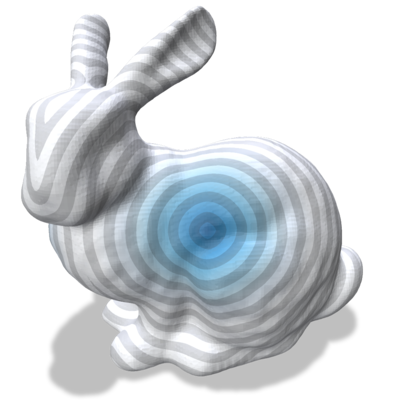
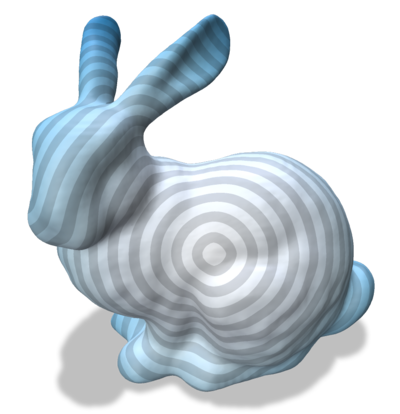
ok doc

diff --git a/src/DGtal/dec/GeodesicsInHeat.h b/src/DGtal/dec/GeodesicsInHeat.h
@@ -124,7 +124,11 @@ class GeodesicsInHeat
     {
       myIsInit=true;
       
-      SparseMatrix laplacian = myCalculus->globalLaplaceBeltrami();
+      //As the LB is PSD, the identity matrix shouldn't be necessary. However, some solvers
+      //may have issues with positive semi-definite matrix.
+      SparseMatrix I(myCalculus->nbVertices(),myCalculus->nbVertices());
+      I.setIdentity();
+      SparseMatrix laplacian = myCalculus->globalLaplaceBeltrami() + 1e-6 * I;
       SparseMatrix mass      = myCalculus->globalLumpedMassMatrix();
       SparseMatrix heatOpe   = mass + dt*laplacian;
       
@@ -138,12 +142,12 @@ class GeodesicsInHeat
     
     /** Adds a source point at a vertex @e aV
     * @param aV the Vertex
-    * @param dirac the value (def=1.0).
      **/
-    void addSource(const Vertex aV, double dirac=1.0)
+    void addSource(const Vertex aV)
     {
       ASSERT_MSG(aV < myCalculus->nbVertices(), "Vertex not in the surface mesh vertex range");
-      mySource( aV ) = dirac;
+      myLastSourceIndex = aV;
+      mySource( aV ) = 1.0;
     }
     
     /**
@@ -181,13 +185,13 @@ class GeodesicsInHeat
           faceHeat(cpt) = heatDiffusion( v );
           ++cpt;
         }
-        // ∇ heat / ∣∣∇ heat∣∣
-        Vector grad = myCalculus->gradient(f) * faceHeat;
+        // ∇heat / ∣∣∇heat∣∣
+        Vector grad = -myCalculus->gradient(f) * faceHeat;
         grad.normalize();
       
         // div
         DenseMatrix oneForm = myCalculus->V(f)*grad;
-        Vector divergenceFace = myCalculus->D(f).transpose()*myCalculus->M(f)*oneForm;
+        Vector divergenceFace = myCalculus->divergence(f) * oneForm;
         cpt=0;
         for(auto v: vertices)
         {
@@ -197,8 +201,13 @@ class GeodesicsInHeat
       }
       
       // Last Poisson solve
-      Vector distVec = Vector::Ones(myCalculus->nbVertices()) + myPoissonSolver.solve(divergence);
-      return distVec;
+      Vector distVec = myPoissonSolver.solve(divergence);
+
+      //Source val
+      auto sourceval = distVec(myLastSourceIndex);
+      
+      //shifting the distances to get 0 at sources
+      return distVec - sourceval*Vector::Ones(myCalculus->nbVertices());
     }
     
     
@@ -212,12 +221,22 @@ class GeodesicsInHeat
 
   private:
     
+    ///The underlying PolygonalCalculus instance
     const PolygonalCalculus *myCalculus;
 
+    ///Poisson solver
     Solver myPoissonSolver;
+
+    ///Heat solver
     Solver myHeatSolver;
+
+    ///Source vector
     Vector mySource;
-    
+
+    ///Vertex index to the last source point (to shift the distances)
+    Vertex myLastSourceIndex;
+  
+    ///Validitate flag
     bool myIsInit;
     
   }; // end of class GeodesicsInHeat

diff --git a/examples/polyscope-examples/dgtalCalculus-geodesic.cpp b/examples/polyscope-examples/dgtalCalculus-geodesic.cpp
@@ -62,30 +62,32 @@ void precompute()
   trace.endBlock();
 }
 
-
 void addsource()
 {
-  heat->addSource( 52889 );
-  heat->addSource( rand() % surfmesh.nbVertices());
+  auto pos =rand() % surfmesh.nbVertices();
+  heat->addSource( pos );
   GeodesicsInHeat<PolygonalCalculus<SurfMesh>>::Vector source = heat->source();
   psMesh->addVertexScalarQuantity("source", source);
 
   if (!skipReg)
   {
-    heatReg->addSource( 52889 );
-    heatReg->addSource( rand() % surfmesh.nbVertices());
+    heatReg->addSource( pos );
     GeodesicsInHeat<PolygonalCalculus<SurfMesh>>::Vector source = heatReg->source();
     psMeshReg->addVertexScalarQuantity("source", source);
   }
 }
 
-void computeGeodisc()
+void computeGeodesics()
 {
+
+  heat->addSource( 52889 ); //Forcing one seed (for screenshots)
   GeodesicsInHeat<PolygonalCalculus<SurfMesh>>::Vector dist = heat->compute();
   psMesh->addVertexDistanceQuantity("geodesic", dist);
+  psMesh->addVertexScalarQuantity("geodesic2", dist);
 
   if (!skipReg)
   {
+    heatReg->addSource( 52889 ); //Forcing one seed (for screenshots)
     GeodesicsInHeat<PolygonalCalculus<SurfMesh>>::Vector dist = heatReg->compute();
     psMeshReg->addVertexDistanceQuantity("geodesic", dist);
   }
@@ -102,7 +104,7 @@ void myCallback()
     addsource();
   
   if(ImGui::Button("Compute geodesic"))
-    computeGeodisc();
+    computeGeodesics();
 }
 
 int main()

diff --git a/src/DGtal/dec/PolygonalCalculus.h b/src/DGtal/dec/PolygonalCalculus.h
@@ -299,6 +299,24 @@ public:
     return faceArea(f) * Uf.transpose()*Uf + lambda * Pf.transpose()*Pf;
   }
   
+  /// Divergence operator of a one-form.
+  /// @param f the face
+  /// @param lambda the regularization parameter
+  /// @return a degree x degree matrix
+  DenseMatrix divergence(const Face f, const double lambda=1.0) const
+  {
+    return D(f).transpose() * M(f);
+  }
+  
+  /// Curl operator of a one-form (identity matrix).
+  /// @param f the face
+  /// @return a degree x degree matrix
+  DenseMatrix curl(const Face f) const
+  {
+    return DenseMatrix::Identity(myFaceDegree[f],myFaceDegree[f]);
+  }
+  
+  
   /// (weak) Laplace-Beltrami operator for the face.
   /// @param f the face
   /// @param lambda the regularization parameter

diff --git a/tests/dec/testPolygonalCalculus.cpp b/tests/dec/testPolygonalCalculus.cpp
@@ -170,6 +170,22 @@ TEST_CASE( "Testing PolygonalCalculus" )
     REQUIRE( (P*boxCalculus.V(f)).norm() == 0.0);
   }
   
+  SECTION("Div / Curl")
+  {
+    PolygonalCalculus<Mesh>::Face f = 0;
+    auto nf =  boxCalculus.faceDegree(f);
+
+    auto div = boxCalculus.divergence(f);
+    auto curl = boxCalculus.curl(f);
+    auto divcurl = div*curl * boxCalculus.V(f);
+    
+    PolygonalCalculus<Mesh>::Vector phi(nf);
+    phi << 1.0, 3.0, 2.0, 6.0;
+    auto curlgradphi = curl * boxCalculus.V(f) * boxCalculus.gradient(f) * phi;
+    REQUIRE( curlgradphi.norm() < 0.000001 );
+    REQUIRE( divcurl.norm() < 0.000001 );
+  }
+  
   SECTION("Local Laplace-Beltrami")
   {
     PolygonalCalculus<Mesh>::Face f = 0;
